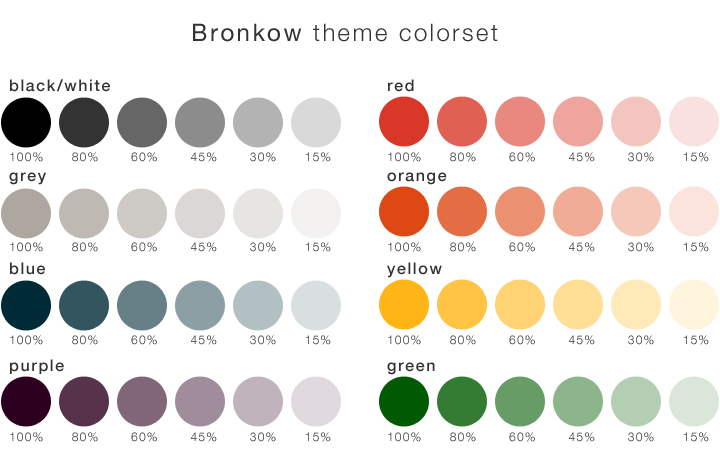
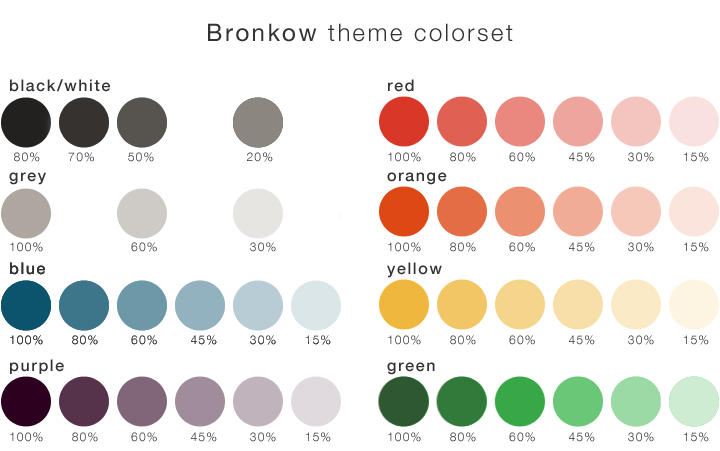
Make the darkest grey tone a bit brighter

diff --git a/colors/bronkow/original/original.sass b/colors/bronkow/original/original.sass
@@ -36,7 +36,7 @@ $purpleL     :      #A08C9A
 $purpleLr    :      #C0B3BC
 
 $black       :   0  #000000
-$greyDst     : 235  #121110  // cold #333333
+$greyDst     : 235  #232120  // cold #333333
 $greyDr      : 235  #353230  // cold #666666
 $greyD       : 250  #575450  // cold #8C8C8C
 $grey        : 238  #8b867f  // warm #AEA79F
